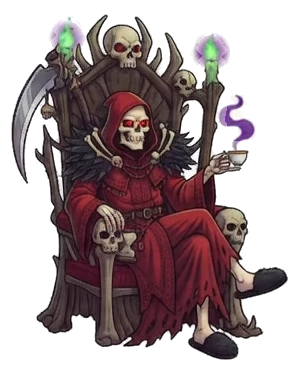
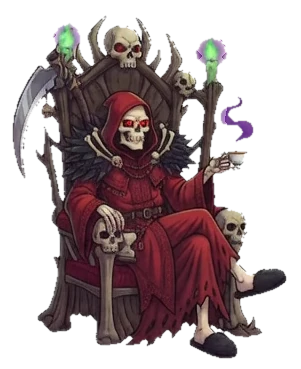
Zafer ekranı Mortimer: beyaz boşluklar ve kenar saçağı temizlendi (yayın 738)

diff --git a/sinir-kalesi/index.html b/sinir-kalesi/index.html
@@ -17,7 +17,7 @@
 <canvas id="game" aria-label="Sınır Kalesi oyun alanı"></canvas>
 <script>
   // Sürüm damgası: her yayında artırılır; tarayıcı eski önbellek kopyasını kullanmaz (js ve görseller).
-  window.SURUM = '737';
+  window.SURUM = '738';
   // dil: kayıtlı seçim (yoksa Türkçe); tr/en dışındakiler için çeviri sözlüğü dil.js'ten önce yüklenir
   window.__dilYukle = (function () {
     var l = null; try { l = localStorage.getItem('sinirKalesi.lang'); } catch (e) {}

diff --git a/sinir-kalesi/yayin.html b/sinir-kalesi/yayin.html
@@ -11,7 +11,7 @@
 <canvas id="game" aria-label="Sınır Kalesi oyun alanı"></canvas>
 <script>
   // Sürüm damgası: her yayında artırılır; tarayıcı eski önbellek kopyasını kullanmaz (js ve görseller).
-  window.SURUM = '737';
+  window.SURUM = '738';
   // dil: kayıtlı seçim (yoksa Türkçe); tr/en dışındakiler için çeviri sözlüğü dil.js'ten önce yüklenir
   window.__dilYukle = (function () {
     var l = null; try { l = localStorage.getItem('sinirKalesi.lang'); } catch (e) {}

diff --git a/varliklar/mortimer_koltuk_veo_isle.py b/varliklar/mortimer_koltuk_veo_isle.py
@@ -14,7 +14,27 @@ X0, Y0, X1, Y1 = 490, 193, 791, 562  # tüm karelerin birleşik kutusu + 10 px p
 S0, L = 24, 204
 
 fr = video_isle.frames_of(os.path.join(H0, 'ham', 'anim', 'mortimer_koltuk_veo.mp4'), 24)
-cut = lambda a: video_isle.remove_white_fx(a)[Y0:Y1, X0:X1]
+from scipy import ndimage as nd
+
+
+def cut(a):
+    """17 Eki (Caner: "arkasında beyaz kesilmemiş yerler var, her şeyi dene"): remove_white_fx gövdenin içine gömülü beyaz boşlukları
+    (taht direklerinin arası, kolun arkası) gövde sayıyordu. 1) kenara değmeyen saf beyaz öbekler (≥6 px, az doygun) silinir;
+    fincan gibi gölgeli beyazlar eşikte kalır. 2) saydamlığa 4 px yakın bantta açık-soluk saçak silinir, kenar 1 px aşındırılıp yumuşatılır."""
+    c = video_isle.remove_white_fx(a)[Y0:Y1, X0:X1].astype(np.float32); src = a[Y0:Y1, X0:X1].astype(np.float32)
+    mn, mx = src.min(2), src.max(2); sat = (mx - mn) / np.maximum(mx, 1)
+    lab, n = nd.label((mn > 225) & (sat < 0.1))
+    edge = set(np.unique(np.concatenate([lab[0], lab[-1], lab[:, 0], lab[:, -1]])))
+    sz = nd.sum(np.ones_like(mn), lab, range(1, n + 1)); pure = nd.mean(mn, lab, range(1, n + 1))
+    holes = np.isin(lab, [i + 1 for i in range(n) if (i + 1) in edge or (sz[i] >= 6 and pure[i] > 228)])
+    al = c[..., 3]; al[nd.binary_dilation(holes, iterations=1)] = 0
+    out = al < 30; band = nd.binary_dilation(out, iterations=2) & ~out  # 2 px: kontur dışındaki saçak (fincanın beyazı konturun içinde kalır)
+    cm, cx = c[..., :3].min(2), c[..., :3].max(2)
+    al[band & (cm > 150) & ((cx - cm) < 0.3 * np.maximum(cx, 1))] = 0
+    al = np.where(nd.binary_erosion(al > 30, iterations=1), al, 0); c[..., 3] = nd.gaussian_filter(al, 0.6)
+    return c.clip(0, 255).astype(np.uint8)
+
+
 frames = [cut(fr[i]) for i in range(S0, S0 + L)]
 meta_p, man_p = os.path.join(IMG, 'anim.json'), os.path.join(IMG, 'manifest.json')
 meta, man = json.load(open(meta_p)), json.load(open(man_p))
